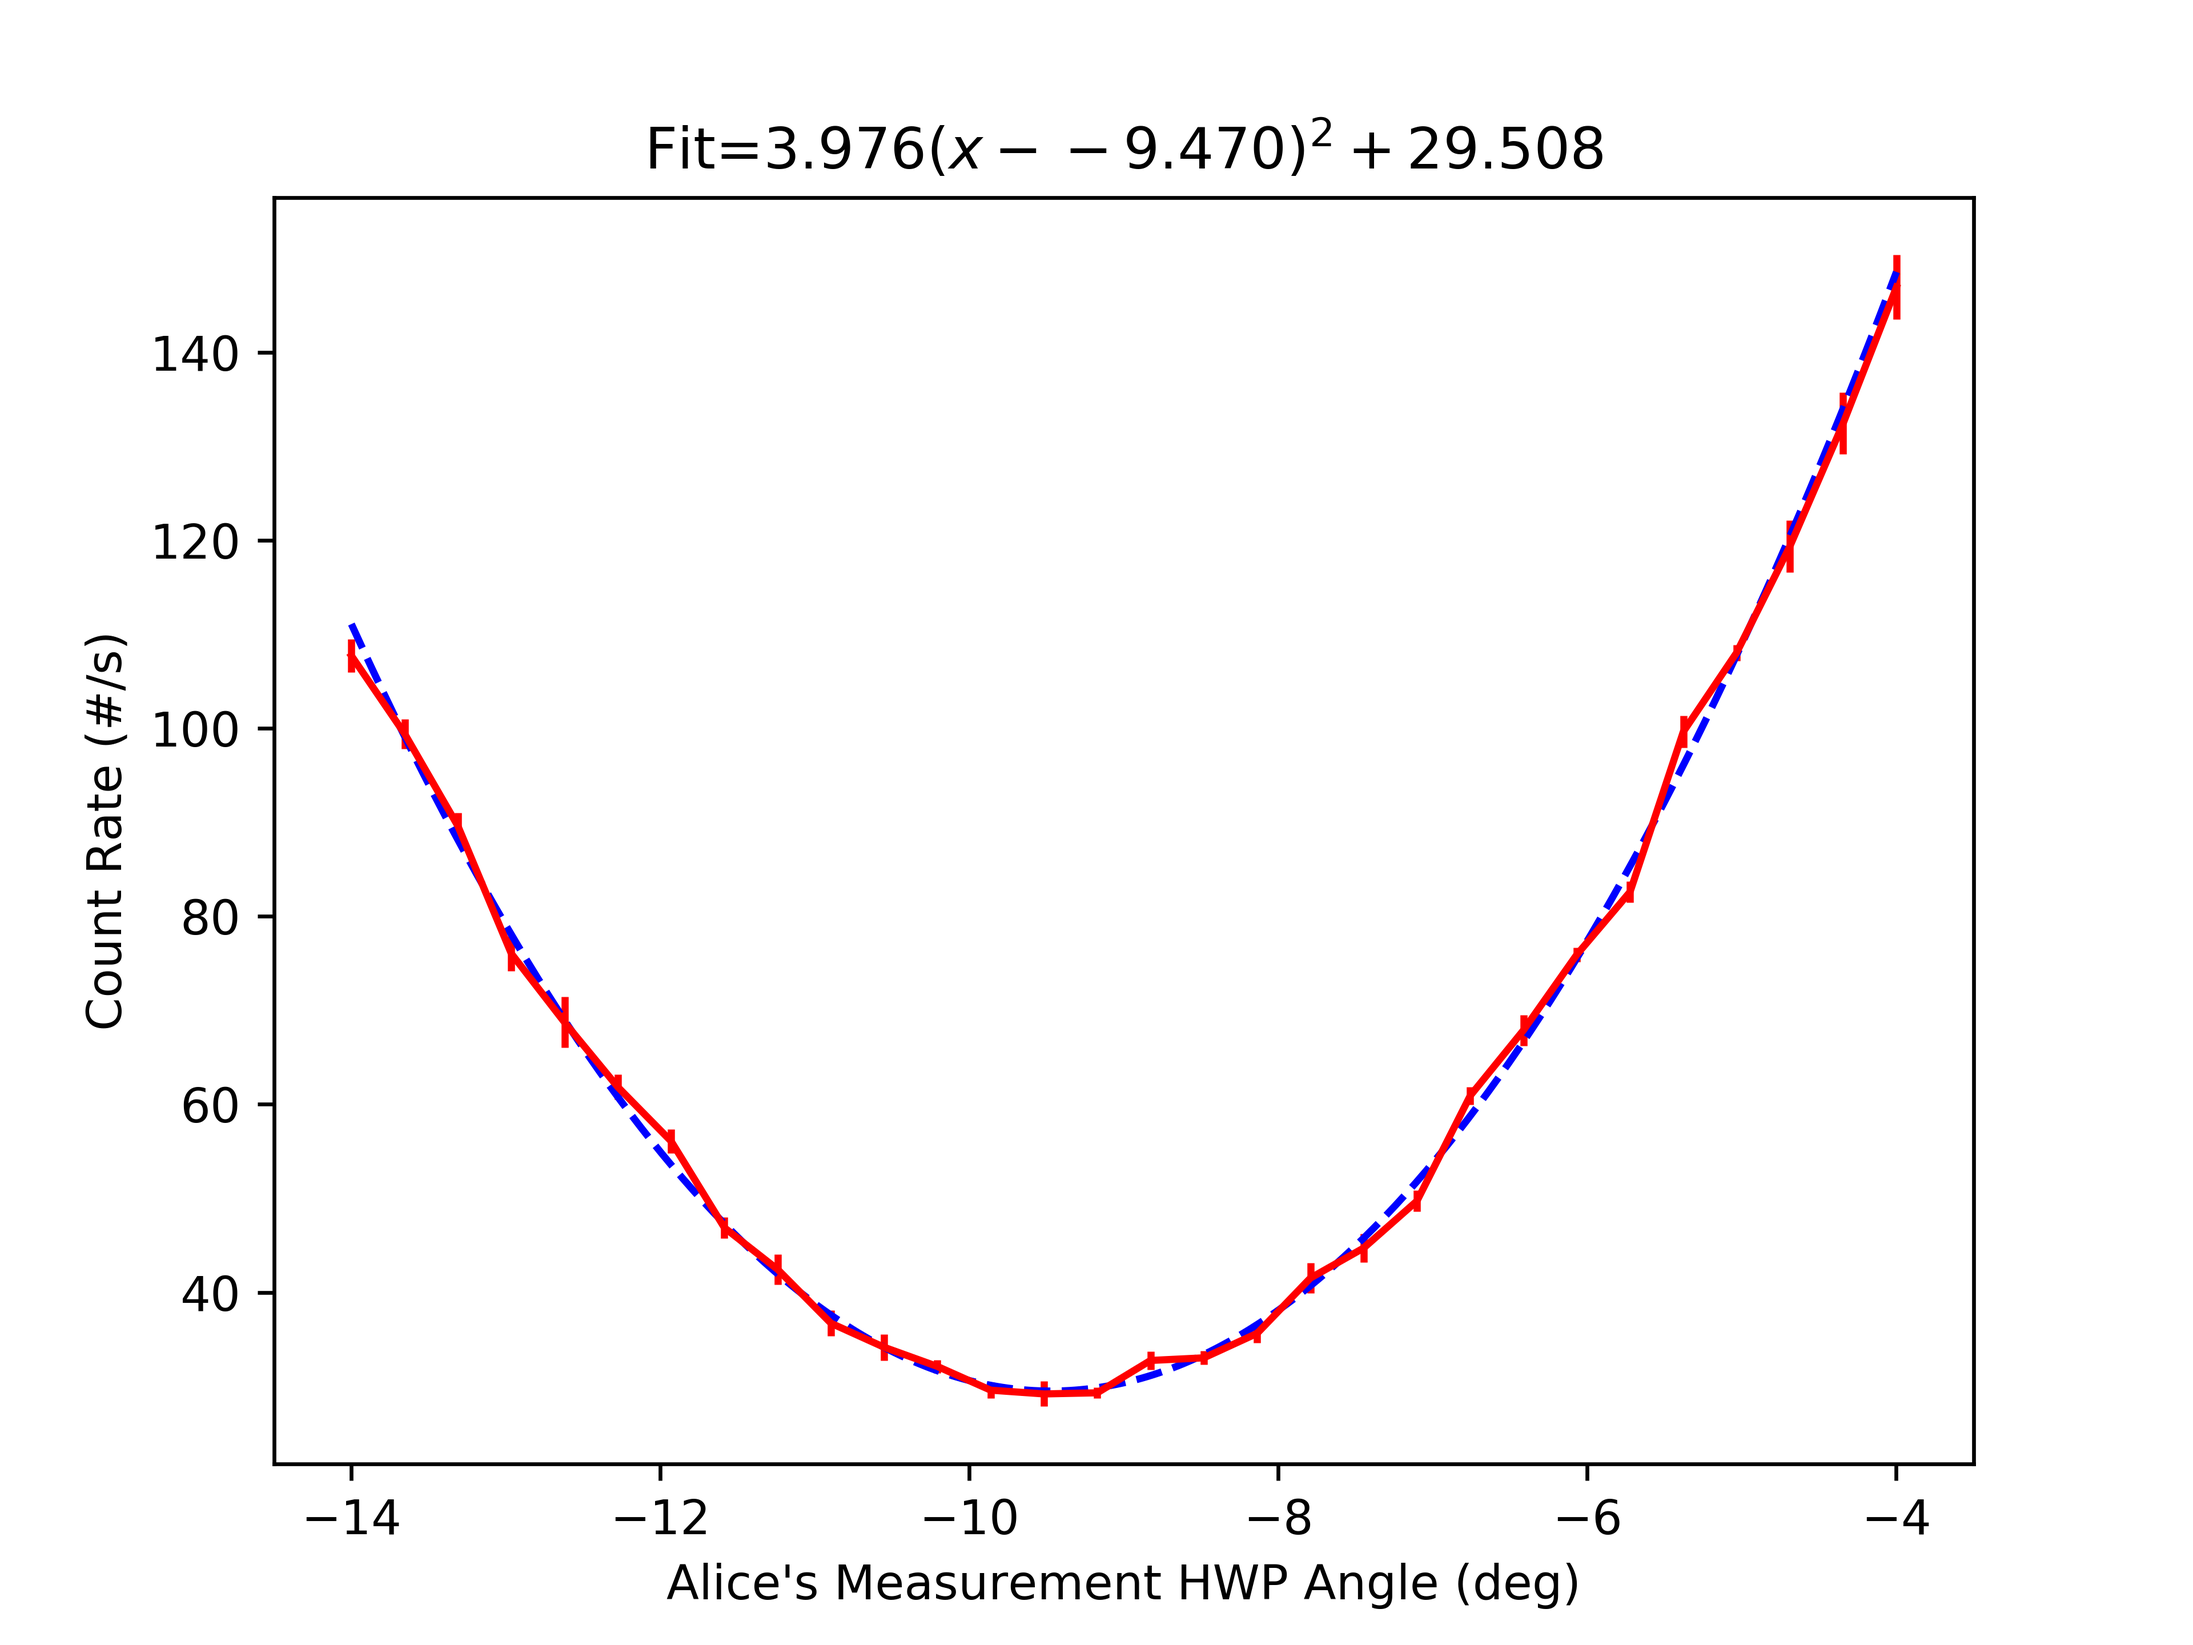
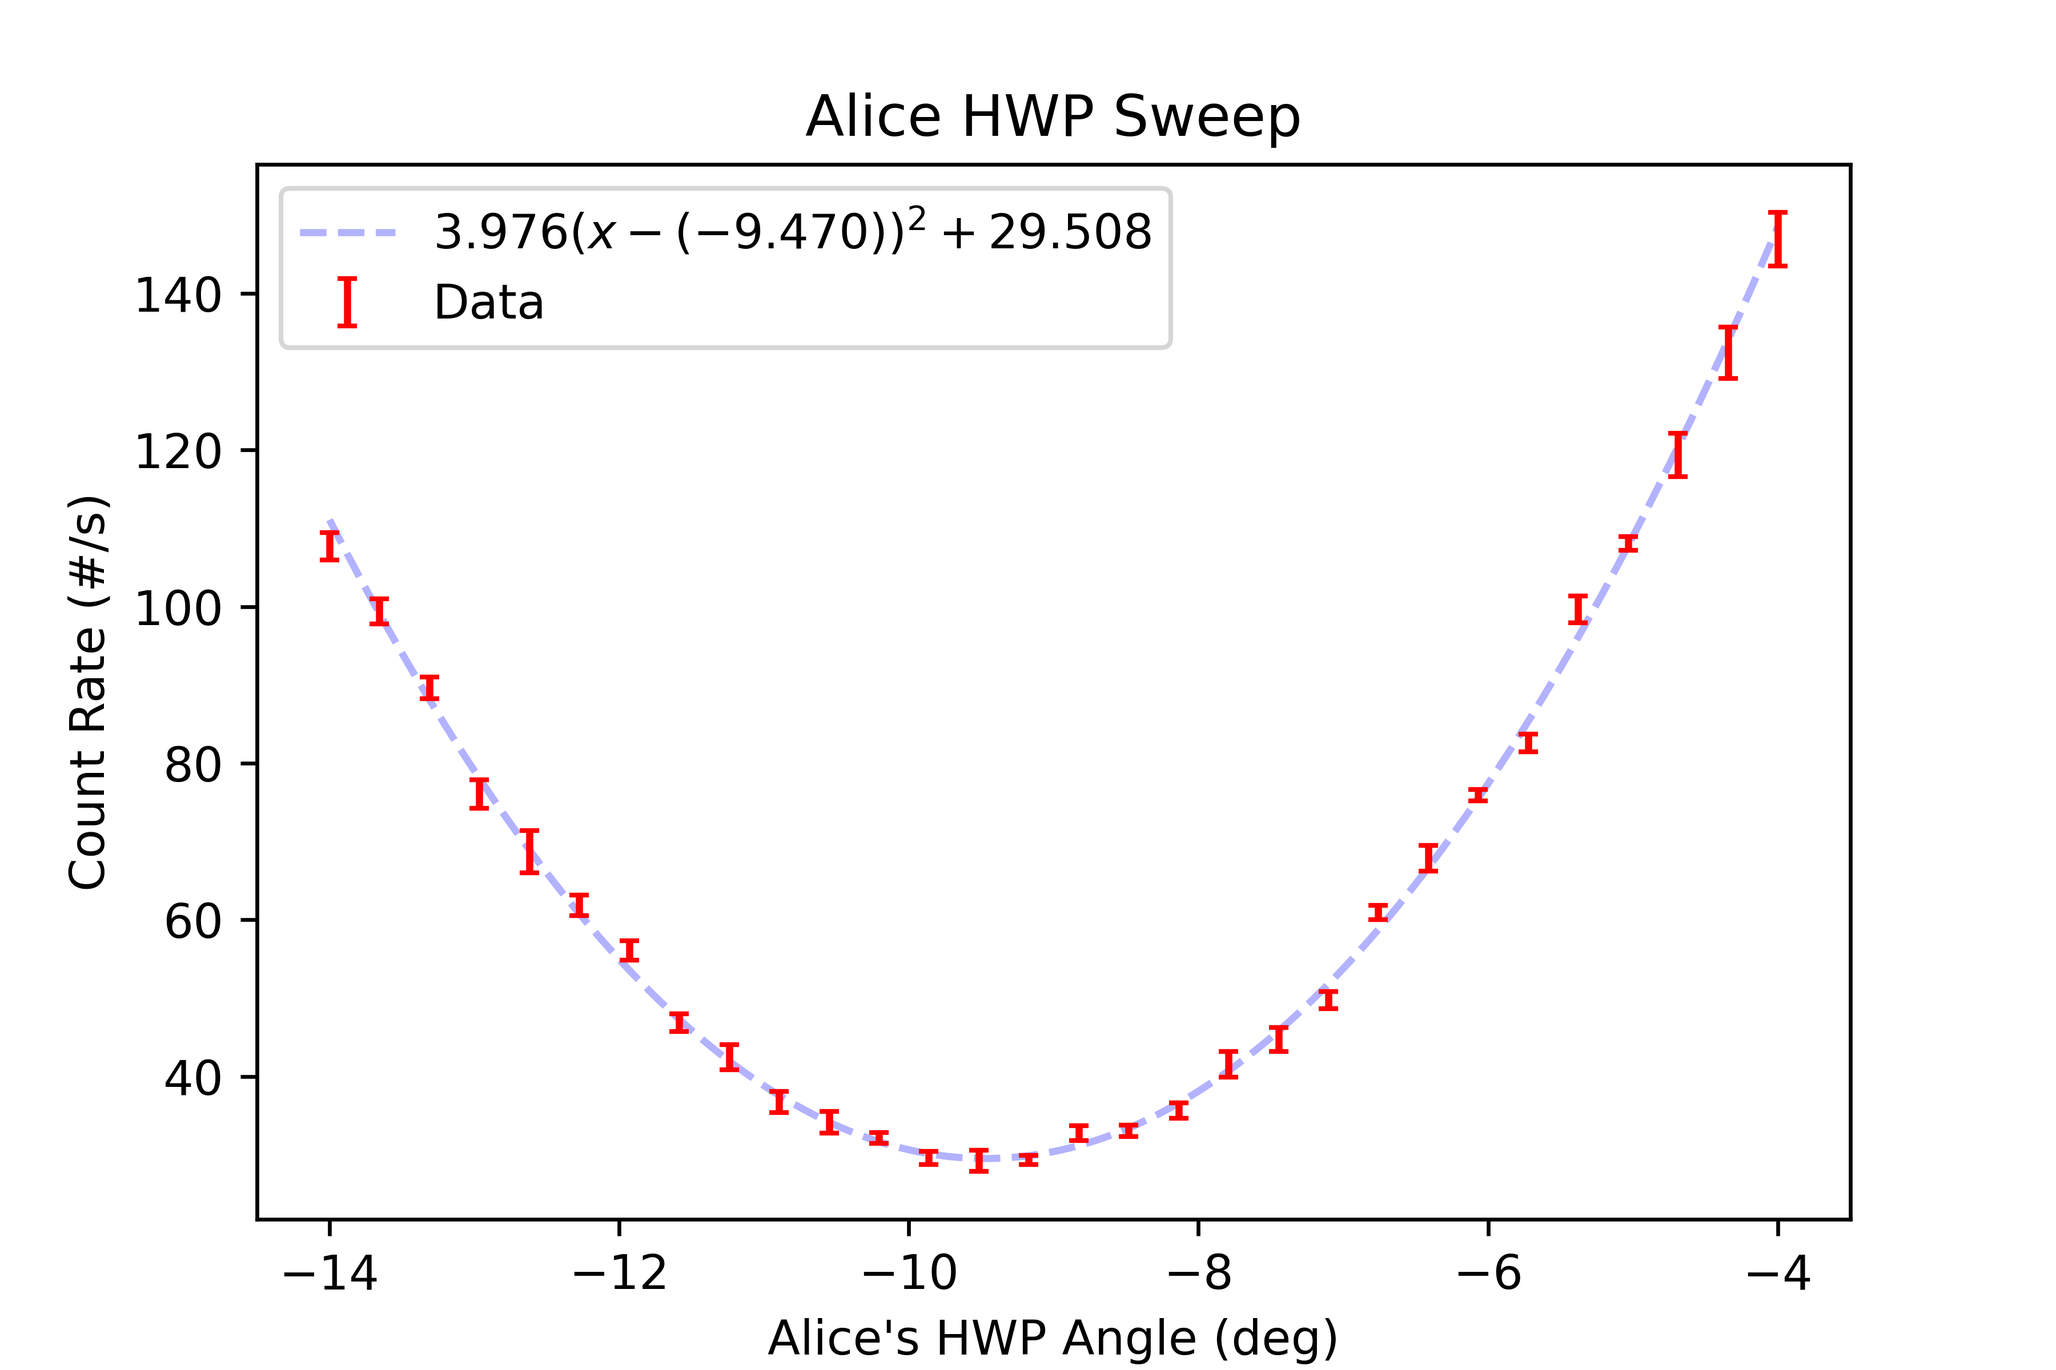
made plotting prettier for UVHWP and AHWP calibration

diff --git a/calibration/AHWP/AHWP.py b/calibration/AHWP/AHWP.py
@@ -7,6 +7,7 @@ if __name__ == '__main__':
     # SWEEP_PARAMS = [-15, 15, 20, 5, 1]
     TRIAL = 1
     SWEEP_PARAMS = [-14, -4, 30, 5, 5]
+    '''
     
     # initialize the manager
     m = Manager(config='../config.json')
@@ -30,8 +31,8 @@ if __name__ == '__main__':
     df = m.output_data(f'AHWP_sweep{TRIAL}.csv')
     m.shutdown()
     '''
-    df = Manager.load_data('AHWP_sweep0.csv')
-    '''
+    df = Manager.load_data(f'AHWP_sweep{TRIAL}.csv')
+    # '''
 
     # fit the function
     params = analysis.fit('quadratic', df['A_HWP'], df['C4'])
@@ -39,12 +40,20 @@ if __name__ == '__main__':
     # print fitted parameters
     print(f'Fit parameters = {params}')
 
+    # setup plot
+    fig = plt.figure(figsize=(6,4))
+    ax = fig.add_subplot(1,1,1)
+    
     # plotting
-    analysis.plot_func('quadratic', params, df['A_HWP'], color='b', linestyle='dashed', label=f'Fit Function')
-    analysis.plot_errorbar(df['A_HWP'], df['C4'], ms=0.1, fmt='r-')
-    plt.xlabel('Alice\'s Measurement HWP Angle (deg)')
+    analysis.plot_func('quadratic', params, df['A_HWP'], color='b', linestyle='dashed', label=f'${params[1].n:.3f}(x-({params[0].n:.3f}))^2 + {params[2].n:.3f}$', alpha=0.3)
+    analysis.plot_errorbar(df['A_HWP'], df['C4'], ms=0.1, fmt='ro', capsize=2, label='Data')
+    
+    # labels and such
+    plt.title('Alice HWP Sweep')
+    plt.xlabel('Alice\'s HWP Angle (deg)')
     plt.ylabel('Count Rate (#/s)')
-    # plt.title('Initial A_HWP Sweep')
-    plt.title(f'Fit=${params[1].n:.3f}(x-{params[0].n:.3f})^2 + {params[2].n:.3f}$')
+    plt.legend()
+
+    # save and show
     plt.savefig(f'AHWP_sweep{TRIAL}.png', dpi=600)
     plt.show()

diff --git a/calibration/UVHWP/UVHWP.py b/calibration/UVHWP/UVHWP.py
@@ -6,6 +6,7 @@ if __name__ == '__main__':
     TRIAL = 1
     SWEEP_PARAMS = [-8, 4, 30, 5, 5]
     
+    '''
     # initialize the manager
     m = Manager(config='../config.json')
 
@@ -24,20 +25,28 @@ if __name__ == '__main__':
     df = m.output_data(f'UVHWP_sweep{TRIAL}.csv')
     m.shutdown()
     '''
-    df = Manager.load_data('UVHWP_sweep1.csv')
-    '''
+    df = Manager.load_data(f'UVHWP_sweep{TRIAL}.csv')
+    # '''
     # fit the function
     params = analysis.fit('quadratic', df['C_UV_HWP'], df['C4'])
 
     # print fitted parameters
     print(f'Fit parameters = {params}')
 
+    # setup plot
+    fig = plt.figure(figsize=(6,4))
+    ax = fig.add_subplot(1,1,1)
+    
     # plotting
-    analysis.plot_func('quadratic', params, df['C_UV_HWP'], color='b', linestyle='dashed', label=f'Fit Function')
-    analysis.plot_errorbar(df['C_UV_HWP'], df['C4'], ms=0.1, fmt='r-')
+    analysis.plot_func('quadratic', params, df['C_UV_HWP'], color='b', linestyle='dashed', label=f'${params[1].n:.3f}(x-({params[0].n:.3f}))^2 + {params[2].n:.3f}$', alpha=0.3)
+    analysis.plot_errorbar(df['C_UV_HWP'], df['C4'], ms=0.1, fmt='ro', capsize=2, label='Data')
+
+    # labels and such
     plt.xlabel('UVHWP Angle (deg)')
     plt.ylabel('Count Rate (#/s)')
-    # plt.title('Initial UVHWP Sweep')
-    plt.title(f'Fit=${params[1].n:.3f}(x-{params[0].n:.3f})^2 + {params[2].n:.3f}$')
+    plt.title('UV HWP Sweep')
+    plt.legend()
+
+    # save and show
     plt.savefig(f'UVHWP_sweep{TRIAL}.png', dpi=600)
     plt.show()
